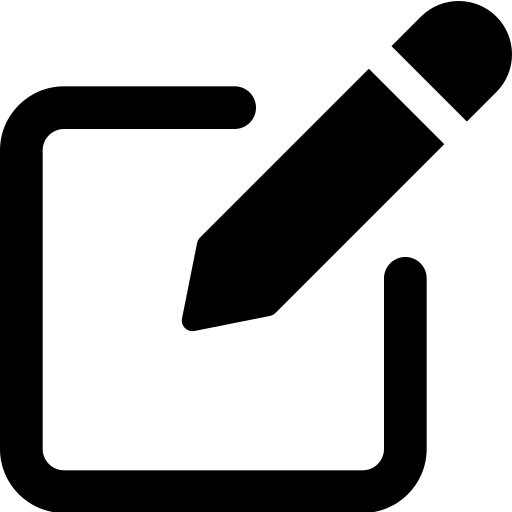
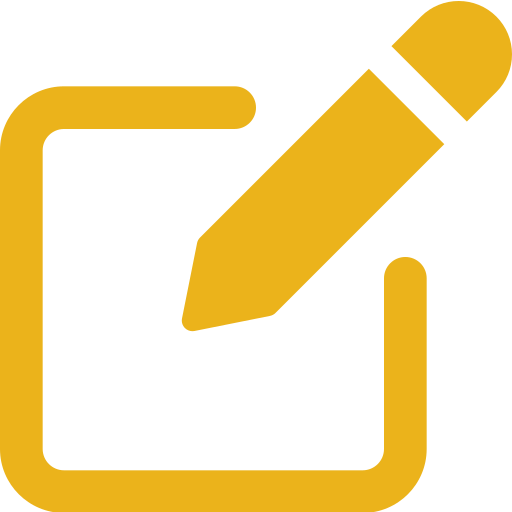
fixing flex items + added tabs

diff --git a/static/css/style.css b/static/css/style.css
@@ -14,6 +14,7 @@
   --main-bg-color:#080b0f;
   --light-bg-color:#242525;
   --container-color: #242933;
+  --light-component-color: #555;
   }
 
 ::-webkit-scrollbar {
@@ -22,10 +23,12 @@
 }
 
 ::-webkit-scrollbar-thumb {
-  background: var(--accents-color);
+  background:  #555; 
+  cursor: pointer;
+
 }
 ::-webkit-scrollbar-thumb:hover {
-  background: #555; 
+  background: var(--accents-color)
 }
 
 * {
@@ -36,12 +39,10 @@ body {
   background-color: var(--main-bg-color);
   display: flex;
   flex-direction: column;
-  align-items: center;
-  justify-content: center;
   margin-top: 2em;
-  margin-right: 2em;
-  margin-bottom: 2em;
   margin-left: 2em;
+  margin-right: 2em;
+  align-items: normal;
 }
 
 /* -------------------
@@ -84,7 +85,6 @@ header img{
 }
 
 header, .main-container {
-  width: 100%;
   min-width: 600px;
 }
 
@@ -105,6 +105,8 @@ header, .main-container {
   padding-top: 2%;  
   color: var(--font-color);
   border:var(--accents-color);
+  min-height: 75vh;
+  gap: 10px;
 }
 
 
@@ -119,7 +121,6 @@ header, .main-container {
 
 .parent-container{
   background-color: var(--light-bg-color);
-  margin-left: 10px;
   border-radius: 10px;
   display: flex;
   flex-direction: row;
@@ -153,9 +154,17 @@ SEARCH FOLDER SECTION
   justify-content: center;
   max-width: 40px;
   height: auto;
-  background-color: var(--accents-color);
+  background-color: var(--light-bg-color);
   padding: 5px;
+  cursor: pointer;
+  border-radius: 5px;
 }
+
+#push-btn:hover {
+  background: var(--accents-color);
+}
+
+
 #push-btn img{
   image-rendering: smooth;
   max-width: 30px;
@@ -165,8 +174,7 @@ SEARCH FOLDER SECTION
 .search-data{
   display: flex;
   flex-direction: column;
-  align-items: flex-start;
-  /* flex: 1; */
+  align-items: stretch;
 }
 
 .search-bar-container{
@@ -178,16 +186,17 @@ SEARCH FOLDER SECTION
 .form-submit {
   display: flex;
   flex-direction: row;
+  align-items: stretch;
 }
 
 #folder-browser-input{
-  flex:1;
   font-size:14px;
   font-family: "Rubik", sans-serif;
   height:inherit;
   padding: 5px 10px;
   height: 35px;
   border: none;
+  width: 100%;
   border-radius: 15px 0px 0px 15px;
   background-color: var(--main-bg-color);
 
@@ -220,7 +229,6 @@ SEARCH FOLDER SECTION
 .suggestions-container{
 
   background-color: #242525;
-  flex: 1;
   border-radius: 10px;
   padding: 14px;
 
@@ -253,11 +261,11 @@ BATCH EDIT SECTION
 ------------------- */
 .batch-edit{
   padding-left: 0px;
+  flex: 1;
 }
 .sidebar{
   display: flex;
   flex-direction: column;
-  flex: 1;
   color: var(--accents-color);
   margin: 0px;
   padding: 0px;
@@ -292,13 +300,13 @@ BATCH EDIT SECTION
 .sidebar h2{
   padding-left: 14px;
 }
-.albums-detected{
+#albums-detected{
   background-color: var(--light-bg-color);
   margin-left: 10px;
   border-radius: 10px;
   display: flex;
+  flex: 1;
   flex-direction: column;
-  flex: 3;
   font-family: "Rubik", sans-serif;
   font-size: 14px; 
   padding: 0px 14px 14px 14px;
@@ -312,9 +320,11 @@ SONG TABLE DATA
 -------------------- */
 
 .song-edit{
+  
   display: flex;
   flex-direction: column;
   margin-left: 10px;
+  flex: 1;
 	font-family: "Rubik", sans-serif;
 	font-optical-sizing: auto;
 	font-weight: 400;
@@ -328,8 +338,6 @@ SONG TABLE DATA
 }
 .data-table-container{
  overflow: scroll; 
-  flex: flex 1;
-
 
 }
 table {
@@ -350,11 +358,11 @@ td, th {
 
 }
 
-td img{
+.edit-btn{
   width: 20px;
   height: auto;
   object-fit: contain;
-  color: white;
+  cursor: pointer;
 }
 
 

diff --git a/templates/homepage.html b/templates/homepage.html
@@ -16,7 +16,6 @@
 
     <main class="main-container">
     <section id="mySidenav" class="search-data parent-container push-sidenav">
-        <!-- <a href="javascript:void(0)" class="closebtn" onclick="closeNav()">&times;</a> -->
         <section class="text-container">
             <h2>Search folder</h2>
         </section>
@@ -44,11 +43,16 @@
         <section id="main" class="batch-edit parent-container main-push">
             <section class="sidebar text-container">
                 <h2 class="bar-item">Batch Edit</h5>
-                    <button class="bar-item tab-button tablink" onclick="openEditor(event, 'Artists')">Artists</button>
-                    <button class="bar-item tab-button tablink" onclick="openEditor(event, 'Albums')">Albums</button>
+                    <button class="bar-item tab-button tablink" onclick="openEditor('artists-detected')">Artists</button>
+                    <button class="bar-item tab-button tablink" onclick="openEditor('albums-detected')">Albums</button>
             </section>
 
-            <section class="albums-detected">
+            <section id="artists-detected" class="artists-detected editable-content">
+
+
+            </section>
+
+            <section id="albums-detected" class="editable-content" style="display: none">
                 <section class="text-container">
                     <h2>Albums found</h2>
 
@@ -57,7 +61,7 @@
                 <div class="album-card" data-album="{{ album_name }}">
                     <span class="album-name">{{ album_name }}</span>
                     <span class="album-count">{{ songs|length }}</span>
-                    <button class="edit-album-btn" onclick="openAlbumModal('{{ album_name }}')">Edit</button>
+                    <img src="./../static/imgs/edit.png" class="edit-btn" onclick="openAlbumModal('{{ album_name }}')">
                 </div>
                 {% endfor %}
             </section>
@@ -93,7 +97,7 @@
                         <td>{{ song['Track Number'] }}</td>
                         <td>{{ song['Date'] }}</td>
 
-                        <td><a href="/edit?path={{ song['Path'] }}"> <img src="static\imgs\edit.png" alt="Edit"></a>
+                        <td><a href="/edit?path={{ song['Path'] }}"> <img class="edit-btn" src="static\imgs\edit.png" alt="Edit"></a>
                         </td>
                     </tr>
                     {% endfor %}

diff --git a/static/js/main.js b/static/js/main.js
@@ -93,3 +93,12 @@ function openNav() {
 
 }
 
+function openEditor(selectionName) {
+  var i;
+  var x = document.getElementsByClassName("editable-content");
+  for (i = 0; i < x.length; i++) {
+    x[i].style.display = "none";
+    console.log("wat")
+  }
+  document.getElementById(selectionName).style.display = "block";
+}

diff --git a/templates/footer.html b/templates/footer.html
@@ -1,4 +1,4 @@
 <section class="footer">
     <p>
-        <a href="https://www.flaticon.com/free-icons/edit" title="edit icons">Icons</a>&nbsp;&nbsp; | &nbsp;&nbsp;<a href="https://github.com/metaspheres/wavv">GitHub</a></p>
+        <a href="https://www.flaticon.com/free-icons/edit" target="_blank" title="edit icons">Icons</a>&nbsp;&nbsp; | &nbsp;&nbsp;<a href="https://github.com/metaspheres/wavv" target="_blank">GitHub</a></p>
 </section>